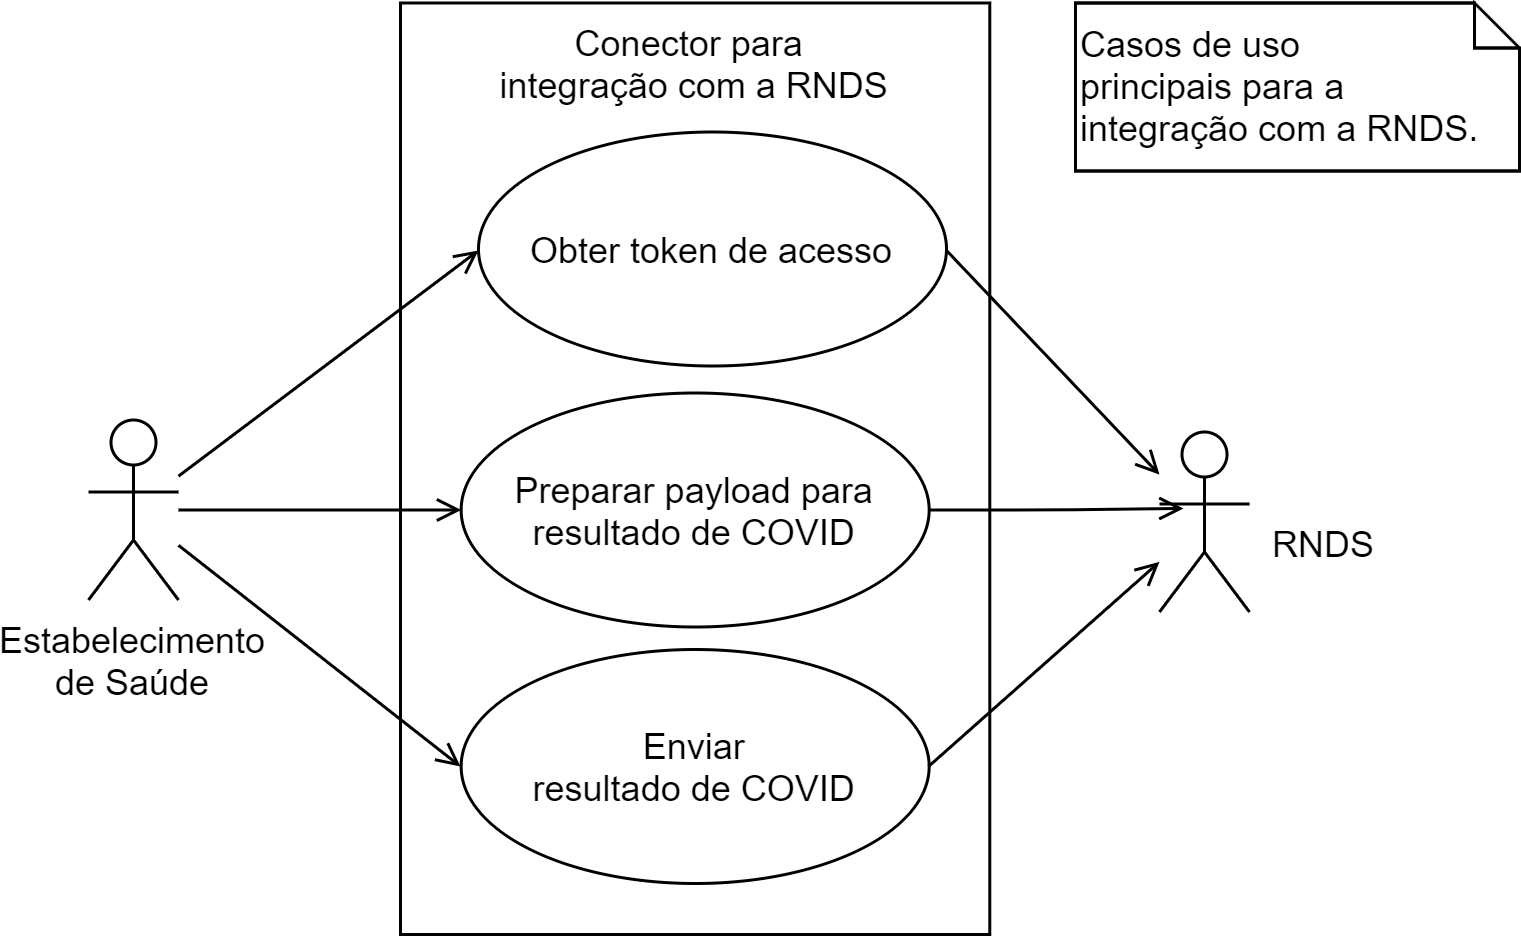
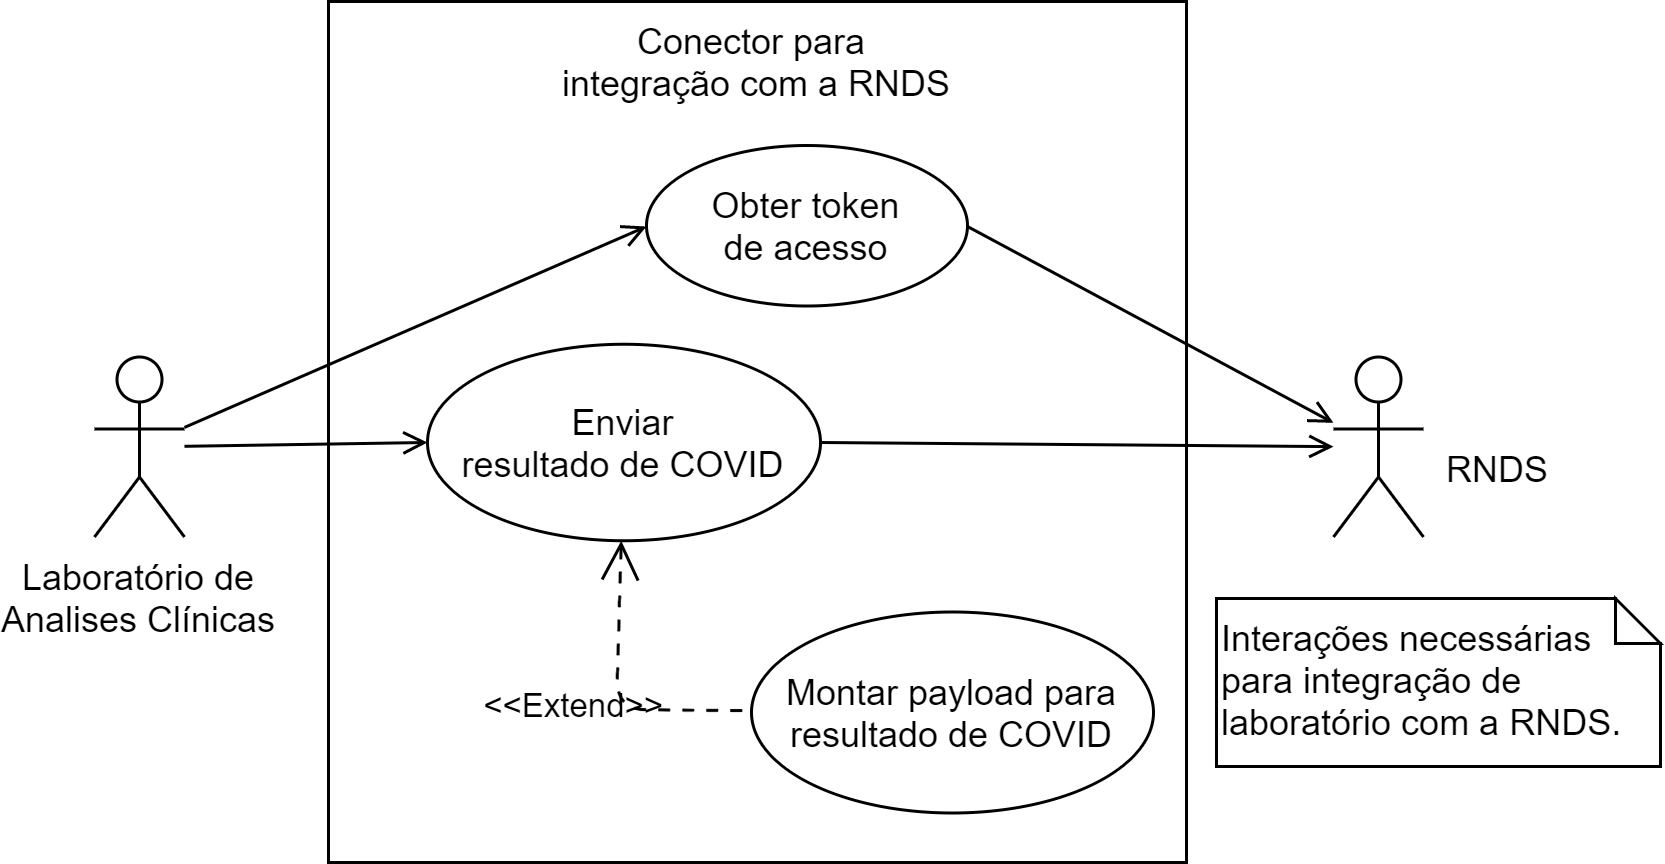
conector

diff --git a/guia/docs/conector.md b/guia/docs/conector.md
@@ -60,14 +60,14 @@ Apesar do Conector de referência atender uma necessidade específica (notificar
 
 ## Requisitos
 
-A integração, no escopo de um Laboratório de Análises Clínicas, possui três casos de uso principais: (a) _Obter token de acesso_; (b) _Preparar payload para resultado de COVID_ e (c) _Enviar resultado de COVID_.
+A integração com a RNDS exige a interação entre o estabelecimento de saúde em questão e a RNDS. As interações relevantes para a integração de um laboratório, conforme escopo identificado acima, são ilustradas abaixo por meio de casos de uso: (a) _Obter token de acesso_; (b) _Preparar payload para resultado de COVID_ e (c) _Enviar resultado de COVID_.
 
 ![img](../static/img/conector-uc.png)
 
-Um Conector pode envolver outras funções. Por exemplo, responder se um determinado resultado foi submetido satisfatoriamente ou não e recuperar a resposta da RNDS para uma dada notificação entregue são algumas das possibilidades. Estas funções são possivelmente necessárias, mas ao mesmo tempo "genéricas", não são específicas da integração com a RNDS. Em consequência, apenas os casos de uso citados acima são considerados.
+A integração pode demandar outras atividades a serem contempladas pelo Conector. Por exemplo, responder se um determinado resultado foi submetido satisfatoriamente ou não e recuperar a resposta da RNDS para uma dada notificação entregue, dentre outras. Estas e outras atividades podem ser necessárias, mas ao mesmo tempo são "genéricas" no sentido em que não são específicas da integração com a RNDS. Em consequência, apenas os casos de uso citados acima são considerados.
 
 :::tip Nota
-Compreender os casos de uso _Obter token de acesso_ e _Enviar resultado de exame_ significa compreender o que é relevante para qualquer integração com a RNDS, e não apenas para a notificação de resultado do COVID-19. Eles representam a segurança e uma necessidade de interoperabilidade em saúde, respectivamente.
+Compreender estes casos de uso significa compreender o que é relevante para qualquer integração com a RNDS, e não apenas para a notificação de resultado do COVID-19. Eles representam a segurança e uma necessidade de interoperabilidade em saúde, respectivamente.
 :::
 
 ### Obter token de acesso
